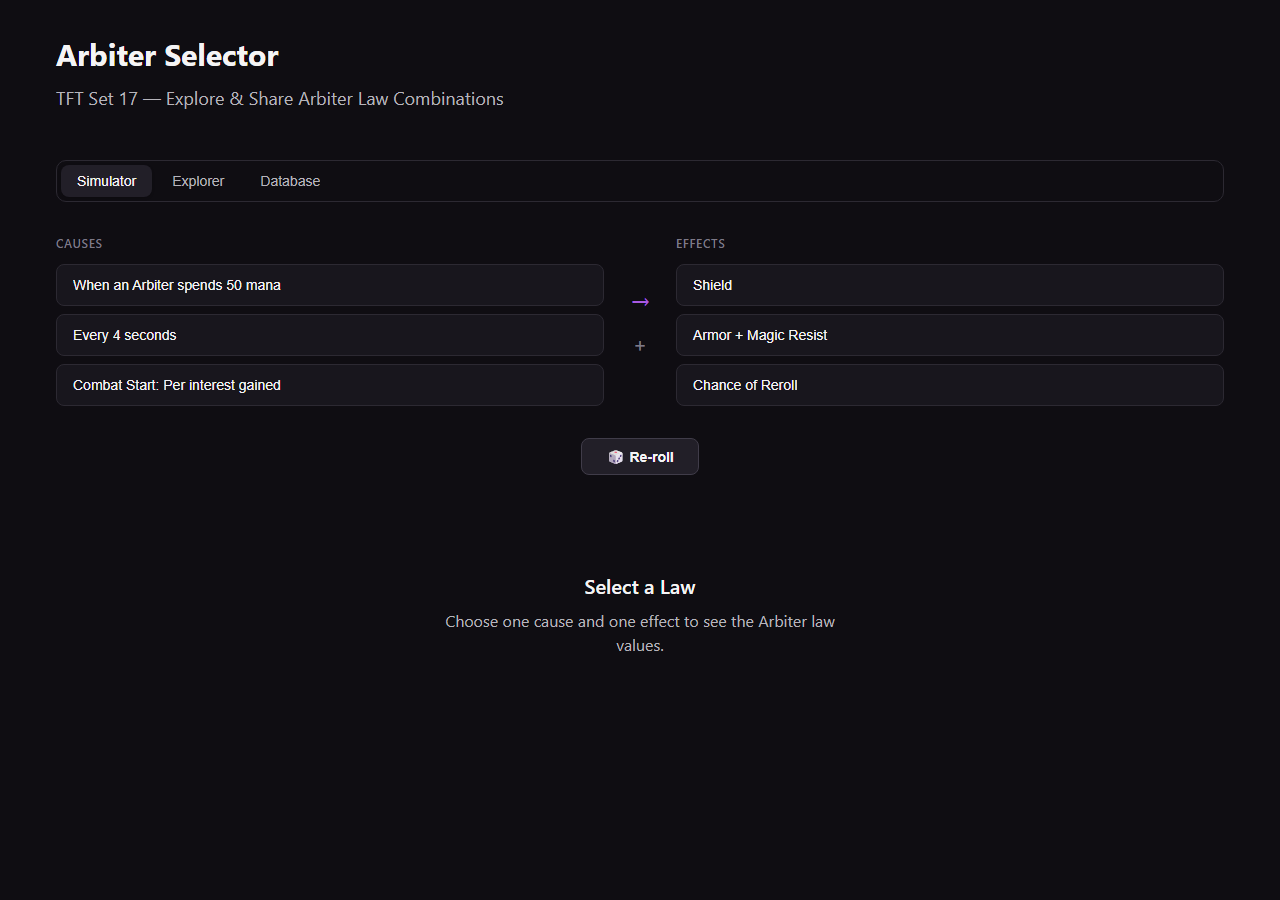
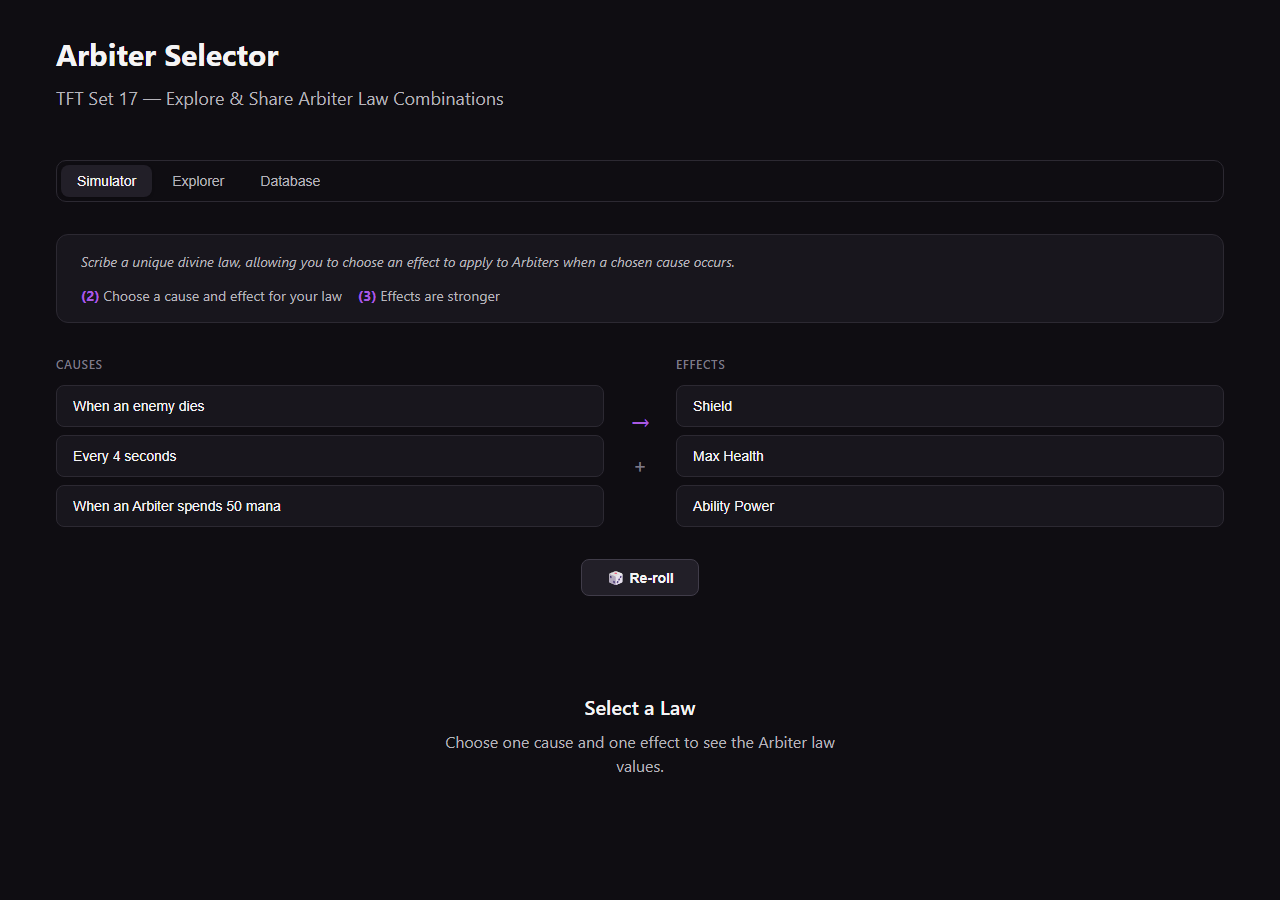
feat: add Arbiter trait description to simulator and database tabs

diff --git a/src/index.css b/src/index.css
@@ -673,6 +673,44 @@ body {
   background: hsl(var(--hue), 10%, 8%);
 }
 
+/* === Trait Description === */
+.trait-description {
+  background: var(--surface-1);
+  border: 1px solid var(--border-subtle);
+  border-radius: var(--radius-lg);
+  padding: var(--space-4) var(--space-5);
+}
+
+.trait-description__flavor {
+  font-size: var(--text-sm);
+  color: var(--text-secondary);
+  line-height: 1.6;
+  margin-bottom: var(--space-3);
+  font-style: italic;
+}
+
+.trait-description__breakpoints {
+  display: flex;
+  gap: var(--space-4);
+  flex-wrap: wrap;
+}
+
+.trait-description__breakpoint {
+  font-size: var(--text-sm);
+  color: var(--text-secondary);
+}
+
+.trait-description__breakpoint strong {
+  color: var(--accent);
+}
+
+@media (max-width: 480px) {
+  .trait-description__breakpoints {
+    flex-direction: column;
+    gap: var(--space-2);
+  }
+}
+
 /* === Champion Cards === */
 .champion-cards__title {
   font-size: var(--text-lg);

diff --git a/src/components/shared/TraitDescription.tsx b/src/components/shared/TraitDescription.tsx
@@ -1,0 +1,18 @@
+export function TraitDescription() {
+  return (
+    <div className="trait-description">
+      <p className="trait-description__flavor">
+        Scribe a unique divine law, allowing you to choose an effect
+        to apply to Arbiters when a chosen cause occurs.
+      </p>
+      <div className="trait-description__breakpoints">
+        <span className="trait-description__breakpoint">
+          <strong>(2)</strong> Choose a cause and effect for your law
+        </span>
+        <span className="trait-description__breakpoint">
+          <strong>(3)</strong> Effects are stronger
+        </span>
+      </div>
+    </div>
+  );
+}

diff --git a/src/components/simulator/SimulatorTab.tsx b/src/components/simulator/SimulatorTab.tsx
@@ -1,6 +1,6 @@
 import { SimulatorProvider, useSimulator } from '../../context/SimulatorProvider';
 import { LawGrid } from './LawGrid';
-import { LawResult, EmptyState } from '../shared';
+import { LawResult, EmptyState, TraitDescription } from '../shared';
 import { getLawValue } from '../../lib/law-utils';
 import { CAUSE_LABELS, EFFECT_LABELS } from '../../data/constants';
 import type { CauseId, EffectId } from '../../types';
@@ -13,6 +13,7 @@ function SimulatorContent() {
 
   return (
     <div className="simulator-tab">
+      <TraitDescription />
       <LawGrid />
 
       <div className="simulator-tab__actions">

diff --git a/src/components/database/DatabaseTab.tsx b/src/components/database/DatabaseTab.tsx
@@ -1,9 +1,11 @@
 import { MatrixTable } from './MatrixTable';
 import { ChampionCards } from './ChampionCards';
+import { TraitDescription } from '../shared';
 
 export function DatabaseTab() {
   return (
     <div className="database-tab">
+      <TraitDescription />
       <MatrixTable />
       <ChampionCards />
     </div>

diff --git a/src/components/shared/index.ts b/src/components/shared/index.ts
@@ -3,3 +3,4 @@ export type { LawResultProps } from './LawResult';
 export { CopyButton } from './CopyButton';
 export { EmptyState } from './EmptyState';
 export type { EmptyStateProps } from './EmptyState';
+export { TraitDescription } from './TraitDescription';